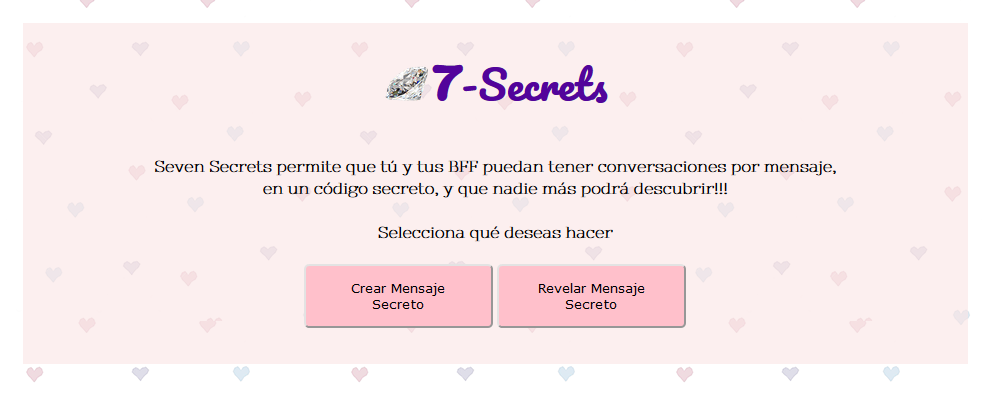
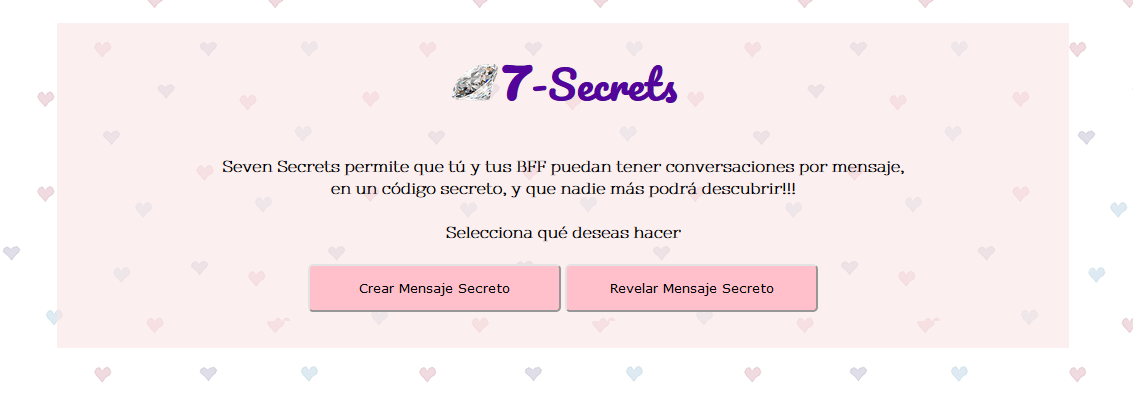
Añade cifrado de números y actualiza código HTML
Se inicia modificación del código HTML y CSS para
adatpar a responsive.

diff --git a/src/index.html b/src/index.html
@@ -1,73 +1,83 @@
 <!DOCTYPE html>
-<html>
+<html lang="en">
   <head>
-    <meta charset="utf-8">
+    <meta charset="UTF-8">
+    <meta name="viewport" content="width=device-width, initial-scale=1.0">
+    <meta http-equiv="X-UA-Compatible" content="ie=edge">
+ 
     <title>7Secrets</title>
+ 
     <link href="style.css" rel="stylesheet"/>
     <link href="https://fonts.googleapis.com/css?family=Bad+Script|Comfortaa:300|Nixie+One|Pacifico" rel="stylesheet"> 
+  
   </head>
 
   <body>
 
 
-    <div class= "box">
-    <!-- Aquí se explica como funciona la web app-->    
-    <h1><img src="../img/diamont.png"><span>7</span>-Secrets</h1>
-    <h4><p> Seven Secrets permite que tú y tus BFF puedan tener conversaciones por mensaje, <br>
-    en un código secreto, y que nadie más podrá descubrir!!! </p>
-    </h4>
-   
-    <div id="select_path">
-      <h4> Selecciona qué deseas hacer</h4>
-
-      <button id="select_encode" class="button">Crear Mensaje Secreto</button>
-      <button id="select_decode" class="button">Revelar Mensaje Secreto</button> 
-      <br><br><br>
-
-    </div>
-  
-    <!-- Caja de texto para cifrar-->
-    <div id="encode_box" class="not_show">
-      <textarea id="textarea_enco" name="comments" rows="10" cols="40" placeholder="Escribe tu mensaje aquí"></textarea>
-      <br> <br/>
-
-      <!-- Selección de offset para cifrado-->
-      Escribe un número del 1 al 10.<br> Este número será la llave para luego descubrir el mensaje secreto.
-      <br> <br/> 
-      <input type ="text" id="selec_offset_enco" min="1" max="200" value="">
-      <br> <br/>
-
-      <!--Botón de input de texto a cifrar-->
-      <input type ="button" class="button" id="get_enco_text" value="Crear Mensaje Secreto">
-
-      <p id="show_msg_enco" class="box_result"></p>   
-    </div>  
-   
-    <!-- Caja de texto para descifrar, -->
-    <div id="decode_box" class="not_show">
-      <textarea id= "textarea_deco" name="comments" rows="10" cols="40" placeholder="Escribe tu mensaje aquí"></textarea>
-      <br><br/>
-
-      <!-- Selección de offset para cifrado-->
-      Escribe el número que te dieron de "llave" para revelar el mensaje secreto.
-      <br><br/> 
-      <input type ="text" id="selec_offset_deco" value="">
-      <br> <br/>
-      <!--Botón de input de texto a cifrar y offset-->
-      <input type ="button" class="button" id="get_deco_text" value="Revelar Mensaje Secreto">
+    <div class= "container">
+      <!-- Aquí se explica como funciona la web app-->    
       
-      <p id="show_msg_deco" class="box_result"></p>   
-    </div> 
-
-    <div id="btn_ini" class="not_show">
-      <input type= "button"  class="button" id="btn_go_ini" value="Volver al Inicio">
-      <br><br><br>
-    </div>
+      <header><h1><img src="../img/diamont.png" alt="Diamante"><span>7</span>-Secrets</h1></header>
+      <p> <strong> Secrets permite que tú y tus BFF puedan tener conversaciones por mensaje, <br>
+      en un código secreto, y que nadie más podrá descubrir!!! </strong></p>
   
-    <script src="cipher.js"></script>
-    <script src="index.js"></script>
+   
+      <section class="box1" id="select_path">
+        <h4> Selecciona qué deseas hacer</h4>
+
+        <button class="button" id="select_encode">Crear Mensaje Secreto</button>
+        <button class="button" id="select_decode">Revelar Mensaje Secreto</button> 
+  
+      </section>
+  
+      <!-- Caja de texto para cifrar-->
+      <div id="encode_box" class="not_show">
+        <textarea id="textarea_enco" name="comments" rows="10" cols="40" placeholder="Escribe tu mensaje aquí"></textarea>
+        <br>
+
+        <!-- Selección de offset para cifrado-->
+        Escribe un número del 1 al 10.<br> Este número será la llave para luego descubrir el mensaje secreto.
+        <br> <br/> 
+        <input type ="text" id="selec_offset_enco" value="">
+        <br>
+
+        <!--Botón de input de texto a cifrar-->
+        <input type ="button" class="button" id="get_enco_text" value="Crear Mensaje Secreto">
+
+        <p id="show_msg_enco" class="box_result"></p>   
+      </div>  
+   
+      <!-- Caja de texto para descifrar, -->
+      <div id="decode_box" class="not_show">
+        <textarea id= "textarea_deco" name="comments" rows="10" cols="40" placeholder="Escribe tu mensaje aquí"></textarea>
+        <br>
+
+        <!-- Selección de offset para cifrado-->
+        Escribe el número que te dieron de "llave" para revelar el mensaje secreto.
+        <br><br/> 
+        <input type ="text" id="selec_offset_deco" value="">
+        <br>
+
+        <!--Botón de input de texto a cifrar y offset-->
+        <input type ="button" class="button" id="get_deco_text" value="Revelar Mensaje Secreto">
+      
+        <p id="show_msg_deco" class="box_result"></p>   
+      </div> 
+
+      <div id="btn_copy" class="not_show">
+          <input type= "button"  class="button" id="btn_to_copy" value="Copiar Mensaje">
+      </div>
+      
+      <div id="btn_ini" class="not_show">
+       <input type= "button"  class="button" id="btn_go_ini" value="Volver al Inicio">
+       <br><br><br>
+      </div>
+  
+      <script src="cipher.js"></script>
+      <script src="index.js"></script>
     
-  </div>
+    </div>
   </body>
 
 </html>

diff --git a/src/index.js b/src/index.js
@@ -5,9 +5,10 @@ const btnEncode = document.getElementById("select_encode");
 
 btnEncode.addEventListener('click', () => {
     document.getElementById("select_path").style.display="none";
+    document.getElementById("show_msg_enco").style.display="none";
     document.getElementById("encode_box").style.display="block";
     document.getElementById("btn_ini").style.display="block";
-    document.getElementById("show_msg_enco").style.display="none";
+   
     
    
 })
@@ -16,9 +17,10 @@ const btnDecode = document.getElementById("select_decode");
 
 btnDecode.addEventListener('click', () => {
     document.getElementById("select_path").style.display="none";
+    document.getElementById("show_msg_deco").style.display="none";
     document.getElementById("decode_box").style.display="block";
     document.getElementById("btn_ini").style.display="block";
-    document.getElementById("show_msg_deco").style.display="none";
+    
 })
 
 
@@ -28,10 +30,11 @@ btnDecode.addEventListener('click', () => {
 let getEncoTex = document.getElementById("get_enco_text");
 
 getEncoTex.addEventListener('click', () => {
-    let userTextEncode = document.getElementById("textarea_enco").value.trim()
+    let userTextEncode = document.getElementById("textarea_enco").value.trim();
     let offsetEnco = parseInt(document.getElementById("selec_offset_enco").value.trim());
     document.getElementById("get_enco_text").style.display="none";
     document.getElementById("show_msg_enco").style.display="block";
+    document.getElementById("btn_copy").style.display="block";
     document.getElementById("show_msg_enco").innerHTML += cipher.encode(userTextEncode, offsetEnco);
 
   // console.log(userTextEncode)
@@ -44,6 +47,7 @@ getDecoText.addEventListener('click', () => {
     let offsetDeco = parseInt(document.getElementById("selec_offset_deco").value.trim());
     document.getElementById("get_deco_text").style.display="none";
     document.getElementById("show_msg_deco").style.display="block";
+    document.getElementById("btn_copy").style.display="block";
     document.getElementById("show_msg_deco").innerHTML += cipher.decode(userTextDecode, offsetDeco);
     
     //console.log(offsetDeco);

diff --git a/src/style.css b/src/style.css
@@ -3,24 +3,39 @@ body {
     background-image: url(../img/heart.png)
 }
 
-.box{
+img {
+    width: 5%;
+    height: 5%;
+}
+
+.container, .box1, .box_result {
+    margin-left: auto;
+    margin-right: auto;
+}    
+
+.container {
+    width: 100%;
+    height: 100%;
+    position:relative;
+   
+}
+
+.box1 {
     background-color:rgba(250, 228, 228, 0.6); /* rgbA */
     width: 75%;
     height: 100%;
     position:relative;
-    margin-left: auto;
-    margin-right: auto;
+    padding-top: 1%;
+    padding-bottom: 4%;
 }
 
-.box_result{
+.box_result {
     background-color:rgba(245, 153, 153, 0.6); /* rgbA */
     width: 70%;
     height: 100%;
     position:relative;
-    margin-left: auto;
-    margin-right: auto;
     padding: 10px;
-    border: 1px solid rgb(165, 165, 165);
+    border: 1px solid rgb(196, 195, 195);
 }
 
 h1 {
@@ -36,7 +51,8 @@ h1 span{
 
 h4, p {
     line-height: 140%;
-    font-family: 'Nixie One', cursive;
+    font-family: 'Nixie One', bold;
+
 }
 
 .not_show {
@@ -49,14 +65,15 @@ textarea {
 }
 
 .button {
- /* border: 1px solid #333;*/
-  width: 25%;
-  height: 5%;
+  width: 200px;
+  height: 40px;
   border-radius: 5px;
   background: pink;
   cursor: pointer;
-  padding: 14px 20px;
-  font-family: Verdana, Geneva, Tahoma, sans-serif
+  padding: 10px 16px;
+  font-family: Verdana, Geneva, Tahoma, sans-serif;
+  box-sizing: border-box;
+  
 }
 
 .button:hover {
@@ -64,8 +81,3 @@ textarea {
     color: white;
     
 }
-
-img {
-    width: 5%;
-    height: 5%;
-    } 

diff --git a/src/cipher.js b/src/cipher.js
@@ -25,6 +25,12 @@ window.cipher = {
         asciiResult = (textToAscii - 32 + offsetEnco)% 1 + 32;
         
         encodeResult += String.fromCharCode(asciiResult);
+
+      } else if (textToAscii>=48 && textToAscii<=57){
+        asciiResult = (textToAscii - 48 + offsetEnco)%10 + 48;
+
+        encodeResult += String.fromCharCode(asciiResult);
+
       }
 
     }
@@ -65,6 +71,12 @@ window.cipher = {
         asciiResult = parseInt(textToAscii - 32 - offsetDeco)% 1 + 32;
         
         decodeResult += String.fromCharCode(asciiResult);
+
+      }else if (textToAscii>=48 && textToAscii<=57){
+        asciiResult = parseInt(textToAscii - 48 - offsetDeco)%10 + 48;
+
+        decodeResult += String.fromCharCode(asciiResult);
+
       }
     }
     return decodeResult;

diff --git a/test/cipher.spec.js b/test/cipher.spec.js
@@ -26,6 +26,10 @@ describe('cipher', () => {
     
     });
 
+    it('debería retornar "3456" para "1234" con offset 2', () => {
+      assert.equal(cipher.encode('1234',2), '3456');
+    
+    });
 
   });
 
@@ -46,6 +50,11 @@ describe('cipher', () => {
 
     it('debería retornar "espacio en blanco" para "espacio en blanco" con offset 4', () => {
       assert.equal(cipher.decode(' ',4), ' ');
+    
+    });
+
+    it('debería retornar "1234" para "3456" con offset 2', () => {
+      assert.equal(cipher.decode('3456',2), '1234');
     
     });
 
